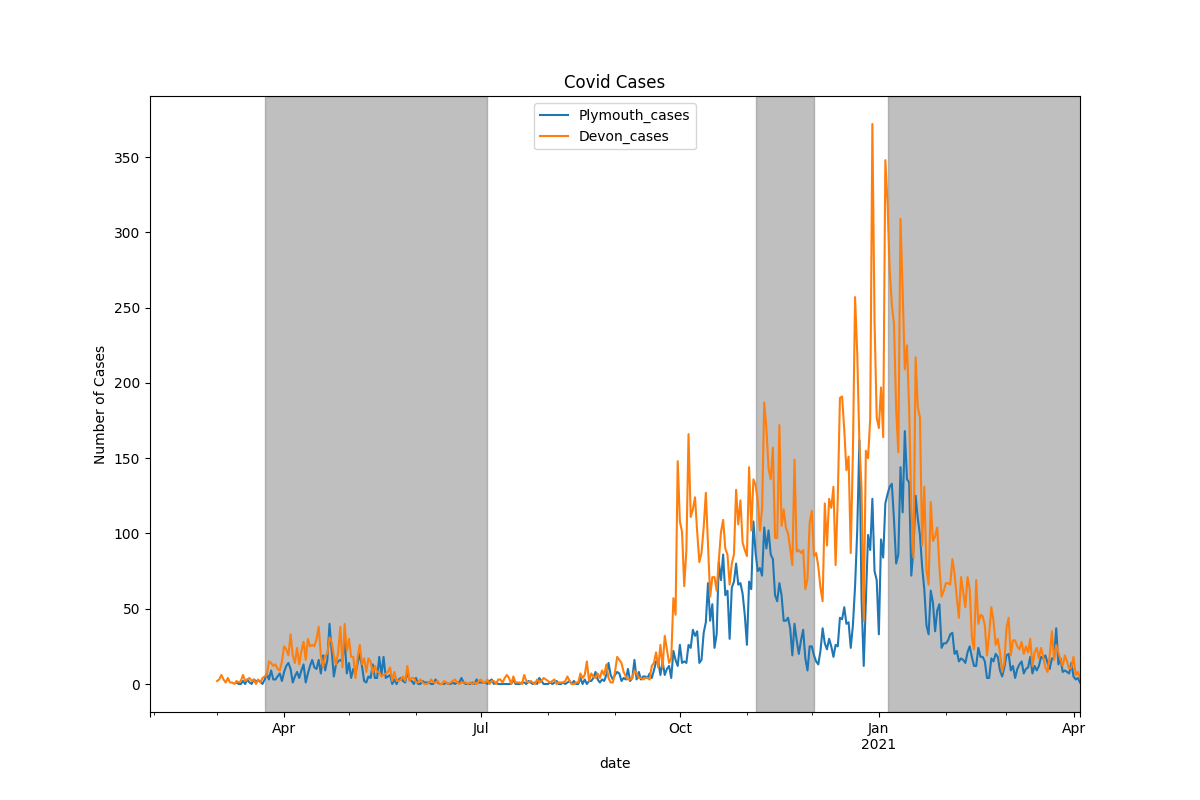
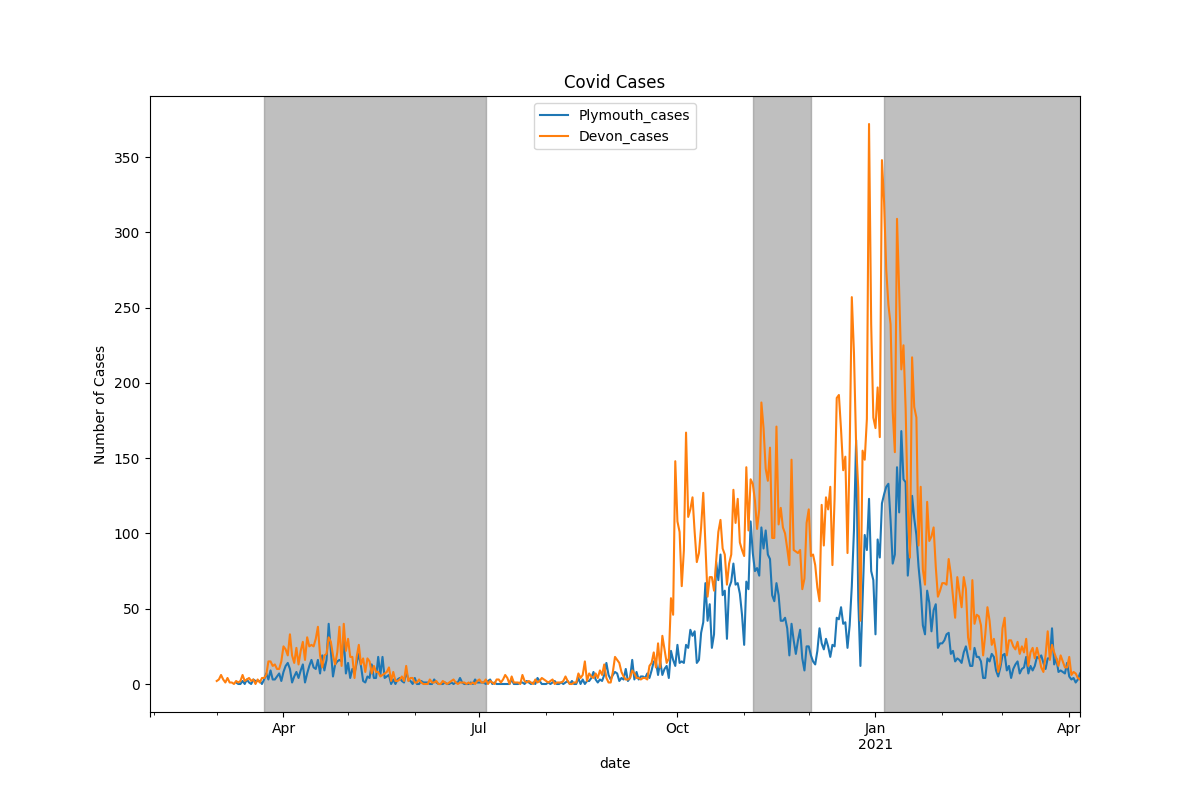
update-data

diff --git a/index.md b/index.md
@@ -7,4 +7,4 @@ Grey sections are used to identify national lockdowns, of various strengths.
 ![Covid Rates Per 100000](images/plymouth_covid_graph_pht.png "Plymouth Covid Graph Per 100000 ")
 
 
-Last updated on: 06 April 2021
+Last updated on: 08 April 2021
